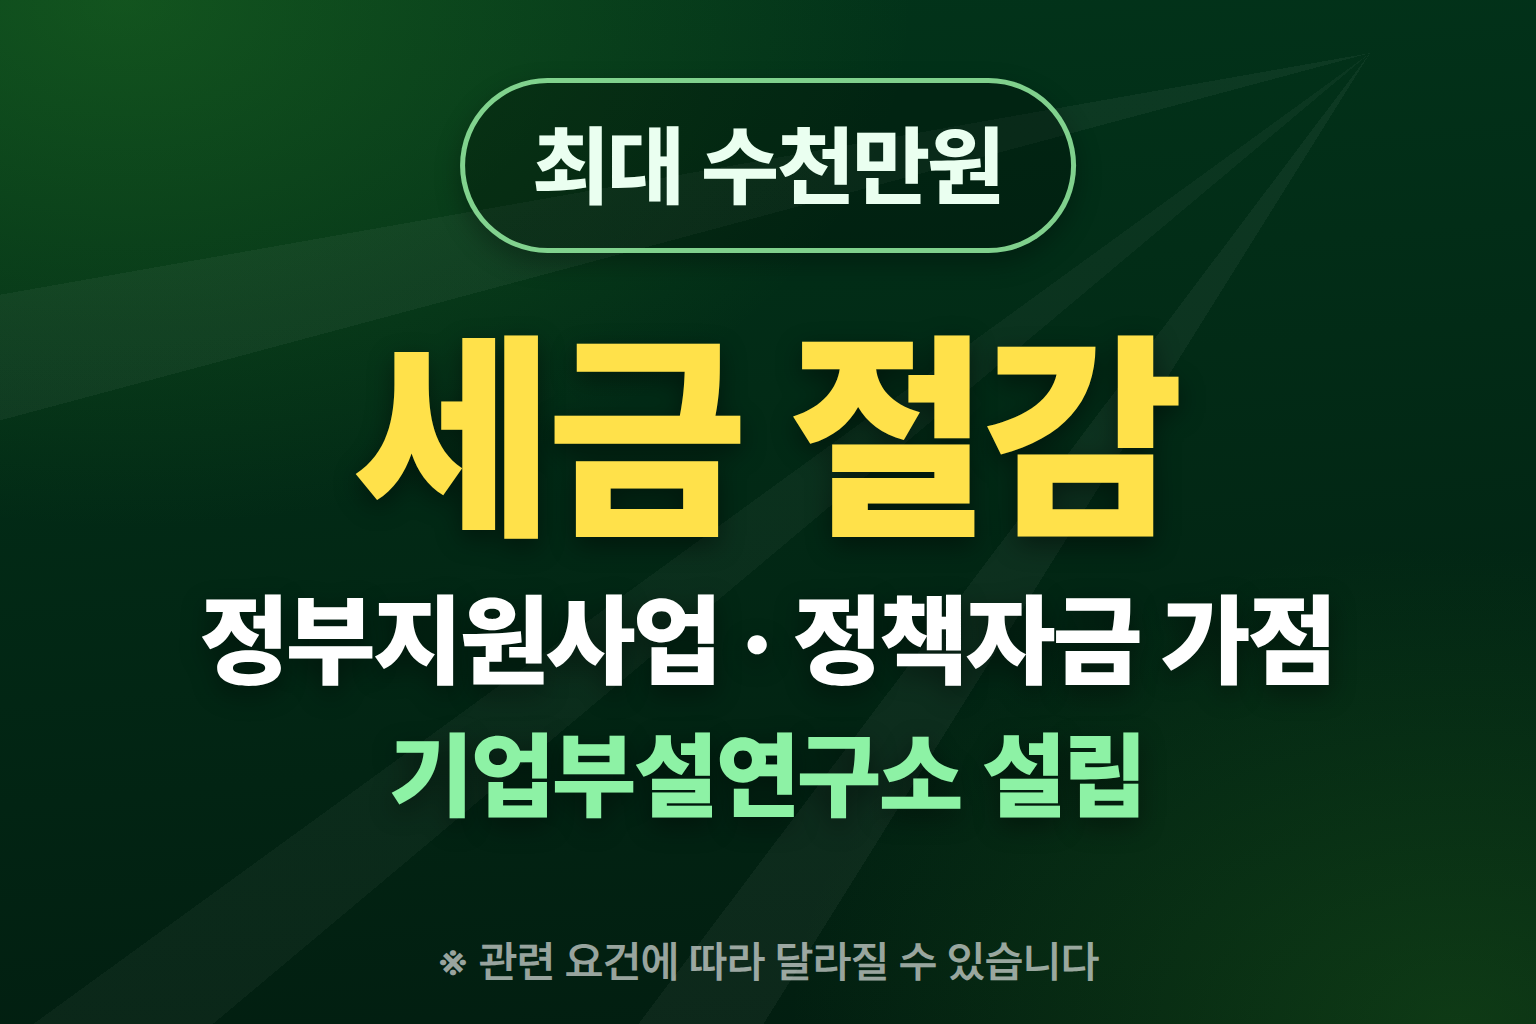
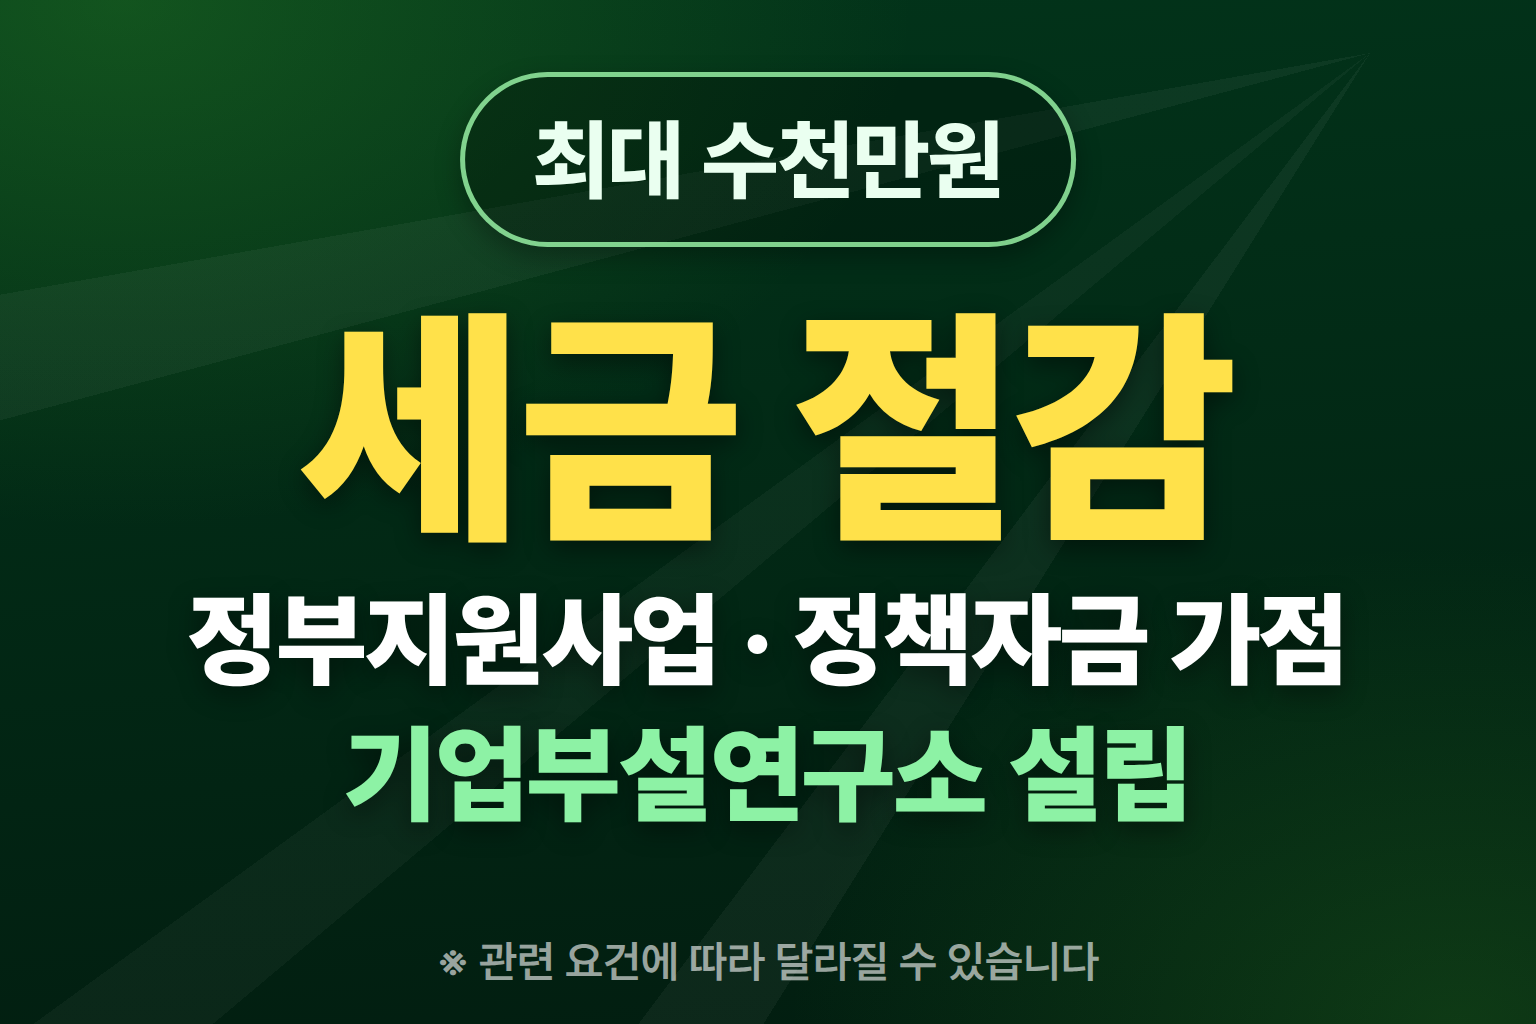
카드·배너·메뉴 다듬기 — 문구 잘림 해소, 배지 정리, 토글 모션, 뒤로가기·목차 넘버링
- 배너 11종 재생성: 문구를 살짝 키우고 위로 모아(pill↔본문 간격 축소) 카드 16:10 크롭에서도 잘리지 않게
- 카드에서 '바로 결제 / 상담 후 견적' 배지 제거
- 카드 혜택 3개 모두 노출 + 말줄임 없이 전체 표시(잘림 해소)
- 찜·장바구니 토글에 짧은 팝 + 링 버스트 모션(reduced-motion 존중)
- 햄버거 열고 뒤로가기 시 홈 이탈 없이 드로어만 닫힘(히스토리 센티넬)
- 전체 상품 상황별 목차에 01~05 넘버링(햄버거 스타일)
- 고용지원금 카드 혜택에 금액 반영: 신규채용 최대 1,440만원 지원

Claude-Session: https://claude.ai/code/session_0127QvWRVvHFDHQbBmPVBCzc

diff --git a/src/components/ProductCard.tsx b/src/components/ProductCard.tsx
@@ -1,6 +1,7 @@
 // 서비스몰형 상품 카드 — 카드 전체가 상세페이지 링크. 찜·장바구니는 상품명 위(우측),
 // 결제/상담은 상세페이지 상단 CTA 에서 진행. 썸네일은 문구가 가려지지 않게 오버레이 없이 깨끗하게.
 // 모바일 2열(2x2) 그리드 우선 — 좁은 폭에서도 글자가 잘리지 않게 기본 크기를 작게, sm 이상에서 확대.
+import { useEffect, useState } from 'react'
 import { Link } from 'react-router-dom'
 import BusinessServiceVisual from './BusinessServiceVisual'
 import { categoryToneClass, packageBanner, type BusinessPackage } from '../data/businessPackages'
@@ -17,29 +18,46 @@ export function formatKoreanMoney(text: string): string {
     .replace(/(?<![\d,])(\d+)\s*천\s*원/g, (_m, cheon: string) => `${(parseInt(cheon, 10) * 1000).toLocaleString('ko-KR')}원`)
 }
 
+const prefersReduce = () => typeof window !== 'undefined' && !!window.matchMedia?.('(prefers-reduced-motion: reduce)').matches
+
 export default function ProductCard({ pkg }: { pkg: BusinessPackage }) {
   const b = packageBanner[pkg.id]
   const flagship = pkg.flagship
-  const consult = pkg.priceType === 'consult'
   const priceText = formatKoreanMoney(pkg.price)
   const { likes, cart } = useSavedItems()
   const liked = likes.includes(pkg.slug)
   const inCart = cart.includes(pkg.slug)
+  const [likePulse, setLikePulse] = useState(false)
+  const [cartPulse, setCartPulse] = useState(false)
+
+  // 활성화(담기/좋아요 켜짐) 순간에만 짧은 팝 모션 재생. 애니메이션 종료 안전망으로 타이머 리셋.
+  useEffect(() => {
+    if (!likePulse) return
+    const t = setTimeout(() => setLikePulse(false), 480)
+    return () => clearTimeout(t)
+  }, [likePulse])
+  useEffect(() => {
+    if (!cartPulse) return
+    const t = setTimeout(() => setCartPulse(false), 480)
+    return () => clearTimeout(t)
+  }, [cartPulse])
 
   // 카드 전체가 Link 이므로 버튼은 내비게이션을 막고 토글만 수행
   const onLike = (e: React.MouseEvent) => {
     e.preventDefault()
     e.stopPropagation()
+    if (!liked && !prefersReduce()) setLikePulse(true)
     toggleLike(pkg.slug)
   }
   const onCart = (e: React.MouseEvent) => {
     e.preventDefault()
     e.stopPropagation()
+    if (!inCart && !prefersReduce()) setCartPulse(true)
     toggleCart(pkg.slug)
   }
 
   const miniBtn =
-    'grid h-8 w-8 place-items-center rounded-full transition-colors duration-150 active:scale-95 focus-visible:outline focus-visible:outline-2 focus-visible:outline-offset-1 focus-visible:outline-blue-500'
+    'relative grid h-8 w-8 place-items-center rounded-full transition-colors duration-150 focus-visible:outline focus-visible:outline-2 focus-visible:outline-offset-1 focus-visible:outline-blue-500'
 
   return (
     <Link
@@ -51,9 +69,9 @@ export default function ProductCard({ pkg }: { pkg: BusinessPackage }) {
           : 'border border-slate-200 shadow-sm hover:border-slate-300 hover:shadow-lg'
       }`}
     >
-      {/* 썸네일 — 오버레이 없이 배너 문구가 온전히 보이도록. 모바일은 문구가 작아 약 18% 확대 */}
+      {/* 썸네일 — 오버레이 없이 배너 문구가 온전히 보이도록(확대·크롭 없음) */}
       <div className="relative aspect-[16/10] overflow-hidden bg-slate-100">
-        <BusinessServiceVisual type={pkg.visualType} title={b.title} accent={b.accent} tag={pkg.category} imageSrc={pkg.imageSrc} alt={pkg.name} fit="cover" minimal thumbZoom />
+        <BusinessServiceVisual type={pkg.visualType} title={b.title} accent={b.accent} tag={pkg.category} imageSrc={pkg.imageSrc} alt={pkg.name} fit="cover" minimal />
       </div>
 
       <div className="flex flex-1 flex-col p-3 sm:p-5">
@@ -72,7 +90,8 @@ export default function ProductCard({ pkg }: { pkg: BusinessPackage }) {
               title={liked ? '좋아요 해제' : '좋아요'}
               className={`${miniBtn} ${liked ? 'bg-rose-50 text-rose-500' : 'text-slate-400 hover:bg-slate-100 hover:text-rose-500'}`}
             >
-              <svg viewBox="0 0 24 24" className="h-[18px] w-[18px]" fill={liked ? 'currentColor' : 'none'} stroke="currentColor" strokeWidth="2" strokeLinecap="round" strokeLinejoin="round" aria-hidden>
+              {likePulse && <span aria-hidden className="animate-save-burst pointer-events-none absolute inset-0 rounded-full bg-rose-400/40" />}
+              <svg viewBox="0 0 24 24" className={`h-[18px] w-[18px] ${likePulse ? 'animate-icon-pop' : ''}`} fill={liked ? 'currentColor' : 'none'} stroke="currentColor" strokeWidth="2" strokeLinecap="round" strokeLinejoin="round" aria-hidden>
                 <path d="M19 14c1.5-1.5 3-3.2 3-5.5A4.5 4.5 0 0 0 17.5 4c-1.7 0-3 .8-4 2.1a5.5 5.5 0 0 0-1-1.1A4.6 4.6 0 0 0 9.5 4 4.5 4.5 0 0 0 5 8.5c0 2.3 1.5 4 3 5.5l4 4 3.5-3.5z" transform="translate(0 .5)" />
               </svg>
             </button>
@@ -84,8 +103,9 @@ export default function ProductCard({ pkg }: { pkg: BusinessPackage }) {
               title={inCart ? '장바구니에서 빼기' : '장바구니에 담기'}
               className={`${miniBtn} ${inCart ? 'bg-blue-50 text-blue-600' : 'text-slate-400 hover:bg-slate-100 hover:text-blue-600'}`}
             >
+              {cartPulse && <span aria-hidden className="animate-save-burst pointer-events-none absolute inset-0 rounded-full bg-blue-400/40" />}
               {inCart ? (
-                <svg viewBox="0 0 24 24" className="h-[18px] w-[18px]" fill="none" stroke="currentColor" strokeWidth="2.4" strokeLinecap="round" strokeLinejoin="round" aria-hidden>
+                <svg viewBox="0 0 24 24" className={`h-[18px] w-[18px] ${cartPulse ? 'animate-icon-pop' : ''}`} fill="none" stroke="currentColor" strokeWidth="2.4" strokeLinecap="round" strokeLinejoin="round" aria-hidden>
                   <path d="M4.5 12.5l5 5 10-11" />
                 </svg>
               ) : (
@@ -111,33 +131,24 @@ export default function ProductCard({ pkg }: { pkg: BusinessPackage }) {
         <h3 className={`line-clamp-2 text-[1.02rem] font-extrabold leading-snug tracking-tight text-slate-900 sm:line-clamp-1 sm:text-[1.35rem] ${flagship ? 'mt-1' : 'mt-2 sm:mt-3'}`}>{pkg.name}</h3>
         <p className="mt-1 line-clamp-2 text-[0.82rem] leading-relaxed text-slate-500 sm:mt-1.5 sm:text-[0.98rem]">{pkg.short}</p>
 
-        {/* 가격 존 — 결제/상담 구분 배지 + 가격 강조 */}
+        {/* 가격 존 — 가격 강조 (결제/상담 구분 배지는 노출하지 않음) */}
         <div className="mt-2.5 sm:mt-3.5">
-          {consult ? (
-            <span className="inline-flex items-center gap-1 rounded-full bg-amber-50 px-2 py-0.5 text-[0.72rem] font-bold text-amber-700 ring-1 ring-inset ring-amber-500/20 sm:px-2.5 sm:py-1 sm:text-[0.82rem]">
-              <span aria-hidden>💬</span> 상담 후 견적
-            </span>
-          ) : (
-            <span className="inline-flex items-center gap-1 rounded-full bg-emerald-50 px-2 py-0.5 text-[0.72rem] font-bold text-emerald-700 ring-1 ring-inset ring-emerald-600/15 sm:px-2.5 sm:py-1 sm:text-[0.82rem]">
-              <span aria-hidden>⚡</span> 바로 결제
-            </span>
-          )}
-          <div className="mt-1.5 flex items-baseline gap-1.5 sm:mt-2">
-            <span className={`font-black tracking-tight ${consult ? 'text-[1.2rem] text-slate-700 sm:text-[1.6rem]' : flagship ? 'text-[1.35rem] text-amber-600 sm:text-[1.85rem]' : 'text-[1.35rem] text-slate-900 sm:text-[1.85rem]'}`}>{priceText}</span>
+          <div className="flex items-baseline gap-1.5">
+            <span className={`font-black tracking-tight ${pkg.priceType === 'consult' ? 'text-[1.2rem] text-slate-700 sm:text-[1.6rem]' : flagship ? 'text-[1.35rem] text-amber-600 sm:text-[1.85rem]' : 'text-[1.35rem] text-slate-900 sm:text-[1.85rem]'}`}>{priceText}</span>
           </div>
-          {pkg.priceHighlight && <p className="mt-1 line-clamp-1 text-[0.8rem] font-bold text-rose-600 sm:mt-1.5 sm:text-[0.9rem]">{formatKoreanMoney(pkg.priceHighlight)}</p>}
+          {pkg.priceHighlight && <p className="mt-1 text-[0.8rem] font-bold leading-snug text-rose-600 sm:mt-1.5 sm:text-[0.9rem]">{formatKoreanMoney(pkg.priceHighlight)}</p>}
         </div>
 
-        {/* 대표 혜택 — 스캔형 체크 리스트. 모바일 2개, sm 이상 3개 */}
+        {/* 대표 혜택 3가지 — 스캔형 체크 리스트(잘림 없이 최대 2줄까지 표시) */}
         <ul className="mt-3 space-y-2 border-t border-slate-100 pt-3 sm:mt-4 sm:space-y-2.5 sm:pt-4">
-          {pkg.highlights.slice(0, 3).map((h, i) => (
-            <li key={h} className={`flex items-center gap-2 text-[0.82rem] font-semibold text-slate-700 sm:gap-2.5 sm:text-[0.98rem] ${i === 2 ? 'hidden sm:flex' : ''}`}>
-              <span className={`grid h-4 w-4 shrink-0 place-items-center rounded-full sm:h-5 sm:w-5 ${flagship ? 'bg-amber-100 text-amber-600' : 'bg-blue-50 text-blue-600'}`} aria-hidden>
+          {pkg.highlights.slice(0, 3).map((h) => (
+            <li key={h} className="flex items-start gap-2 text-[0.82rem] font-semibold leading-snug text-slate-700 sm:gap-2.5 sm:text-[0.98rem]">
+              <span className={`mt-0.5 grid h-4 w-4 shrink-0 place-items-center rounded-full sm:h-5 sm:w-5 ${flagship ? 'bg-amber-100 text-amber-600' : 'bg-blue-50 text-blue-600'}`} aria-hidden>
                 <svg viewBox="0 0 12 12" className="h-2.5 w-2.5 sm:h-3 sm:w-3" fill="none" stroke="currentColor" strokeWidth="2.5" strokeLinecap="round" strokeLinejoin="round">
                   <path d="M2.5 6.4l2.4 2.4L9 3.2" />
                 </svg>
               </span>
-              <span className="line-clamp-1">{formatKoreanMoney(h)}</span>
+              <span>{formatKoreanMoney(h)}</span>
             </li>
           ))}
         </ul>

diff --git a/src/components/PublicMenuDrawer.tsx b/src/components/PublicMenuDrawer.tsx
@@ -223,12 +223,29 @@ export default function PublicMenuDrawer({
     }
   }, [open, variant])
 
+  // 뒤로가기(하드웨어/브라우저)로 드로어만 닫히도록 히스토리 센티넬을 push.
+  // 열릴 때 항목을 하나 쌓고, 뒤로가기(popstate) 시 페이지 이탈 대신 드로어를 닫는다.
+  useEffect(() => {
+    if (!open) return
+    // 라우터가 관리하는 기존 state(usr·key·idx)를 보존하고 miraeDrawer 플래그만 추가
+    window.history.pushState({ ...(window.history.state ?? {}), miraeDrawer: true }, '')
+    const onPop = () => setOpen(false)
+    window.addEventListener('popstate', onPop)
+    return () => window.removeEventListener('popstate', onPop)
+  }, [open])
+
+  // 닫기 요청 — 센티넬을 소비하도록 히스토리 back 호출(→ popstate → setOpen(false))
+  const requestClose = () => {
+    if ((window.history.state as { miraeDrawer?: boolean } | null)?.miraeDrawer) window.history.back()
+    else setOpen(false)
+  }
+
   useEffect(() => {
     if (!open) return
     const panel = panelRef.current
     const onKey = (e: KeyboardEvent) => {
       if (e.key === 'Escape') {
-        setOpen(false)
+        requestClose()
         return
       }
       // 포커스 트랩 — Tab 이 drawer 밖으로 나가지 않도록
@@ -280,7 +297,7 @@ export default function PublicMenuDrawer({
           <button
             type="button"
             aria-label="메뉴 닫기"
-            onClick={() => setOpen(false)}
+            onClick={requestClose}
             className="animate-overlay-in absolute inset-0 h-full w-full cursor-default bg-slate-900/45 backdrop-blur-[2px]"
           />
           {/* drawer — 100dvh 3분할: 헤더 고정 / 메뉴 스크롤 / CTA 고정 */}
@@ -299,7 +316,7 @@ export default function PublicMenuDrawer({
               </div>
               <button
                 type="button"
-                onClick={() => setOpen(false)}
+                onClick={requestClose}
                 aria-label="메뉴 닫기"
                 className="grid h-11 w-11 place-items-center rounded-lg text-slate-400 transition-colors hover:bg-slate-100 hover:text-slate-900 focus-visible:outline focus-visible:outline-2 focus-visible:outline-blue-500"
               >

diff --git a/src/index.css b/src/index.css
@@ -74,6 +74,17 @@
   50% { opacity: 1; }
   100% { opacity: 0.4; }
 }
+/* 찜·장바구니 토글 — 짧고 세련된 팝 + 링 버스트 */
+@keyframes icon-pop {
+  0% { transform: scale(1); }
+  30% { transform: scale(1.42); }
+  55% { transform: scale(0.88); }
+  100% { transform: scale(1); }
+}
+@keyframes save-burst {
+  0% { opacity: 0.55; transform: scale(0.45); }
+  100% { opacity: 0; transform: scale(2); }
+}
 
 .animate-drawer-in { animation: drawer-in 0.26s cubic-bezier(0.22, 1, 0.36, 1) both; }
 .animate-overlay-in { animation: overlay-in 0.2s ease both; }
@@ -89,6 +100,8 @@
   animation: ring-draw 0.8s cubic-bezier(0.22, 1, 0.36, 1) both;
 }
 .animate-confetti { animation: confetti-fall 0.8s ease-out both; }
+.animate-icon-pop { animation: icon-pop 0.34s cubic-bezier(0.22, 1, 0.36, 1); }
+.animate-save-burst { animation: save-burst 0.45s ease-out forwards; }
 
 @media (prefers-reduced-motion: reduce) {
   .animate-fade-in,
@@ -99,7 +112,9 @@
   .animate-press,
   .animate-check-draw,
   .animate-ring-draw,
-  .animate-confetti {
+  .animate-confetti,
+  .animate-icon-pop,
+  .animate-save-burst {
     animation: none;
   }
   .animate-check-draw,

diff --git a/src/pages/BusinessServicesPage.tsx b/src/pages/BusinessServicesPage.tsx
@@ -343,11 +343,14 @@ export default function BusinessServicesPage() {
             })}
           </div>
 
-          {/* 상황별 시나리오 그룹 */}
+          {/* 상황별 시나리오 그룹 — 목차형 넘버링 */}
           <div className="mt-8 space-y-10">
-            {groups.map((g) => (
+            {groups.map((g, gi) => (
               <div key={g.cat}>
-                <h3 className="text-xl font-extrabold tracking-tight text-slate-900 sm:text-2xl">{g.scenario}</h3>
+                <div className="flex items-baseline gap-2.5">
+                  <span className="text-lg font-black tabular-nums tracking-widest text-blue-600 sm:text-xl">{String(gi + 1).padStart(2, '0')}</span>
+                  <h3 className="text-xl font-extrabold tracking-tight text-slate-900 sm:text-2xl">{g.scenario}</h3>
+                </div>
                 <div className="mt-4 grid grid-cols-2 gap-3 sm:gap-5 lg:grid-cols-3">
                   {g.items.map((pkg) => (
                     <ProductCard key={pkg.id} pkg={pkg} />

diff --git a/src/data/businessPackages.ts b/src/data/businessPackages.ts
@@ -134,7 +134,7 @@ export const businessPackages: BusinessPackage[] = [
     price: '상담 후 안내',
     priceNote: '기업 상황·지원 범위에 따라 맞춤 안내',
     priceType: 'consult',
-    highlights: ['신규채용 지원 — 인건비 부담 완화 · 최대 2년', '기존직원 지원 — 고용유지 장려금 · 기업 안정', '육아지원금 — 육아휴직·대체인력 지원'],
+    highlights: ['신규채용 — 최대 1,440만원 지원', '기존직원 고용유지 지원', '육아휴직·대체인력 지원'],
     highlightNote: '기업의 인건비 부담을 줄이고, 고용 안정을 지원합니다.',
     recommendedFor: ['채용 계획이 있어 고용지원금을 활용하고 싶은 대표님', '신청부터 사후관리까지 맡기고 싶은 기업'],
     deliverables: ['지원금 가능성 검토', '신청 대상 제도 정리', '신청 및 사후관리 안내'],
